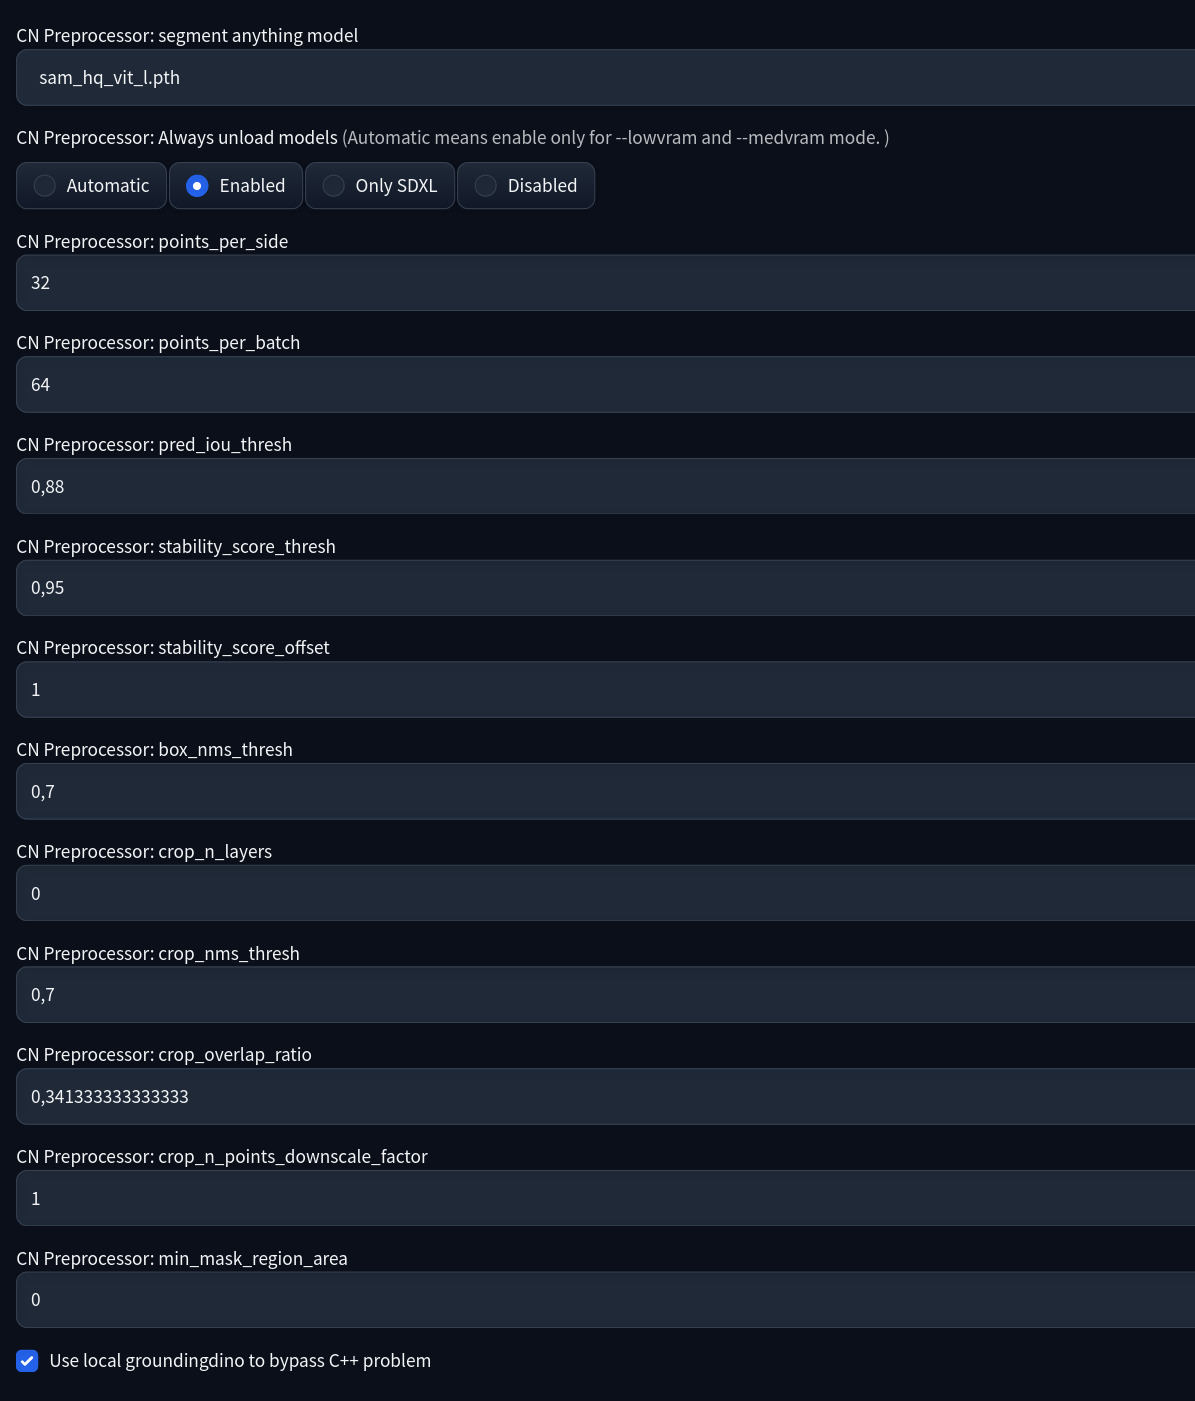
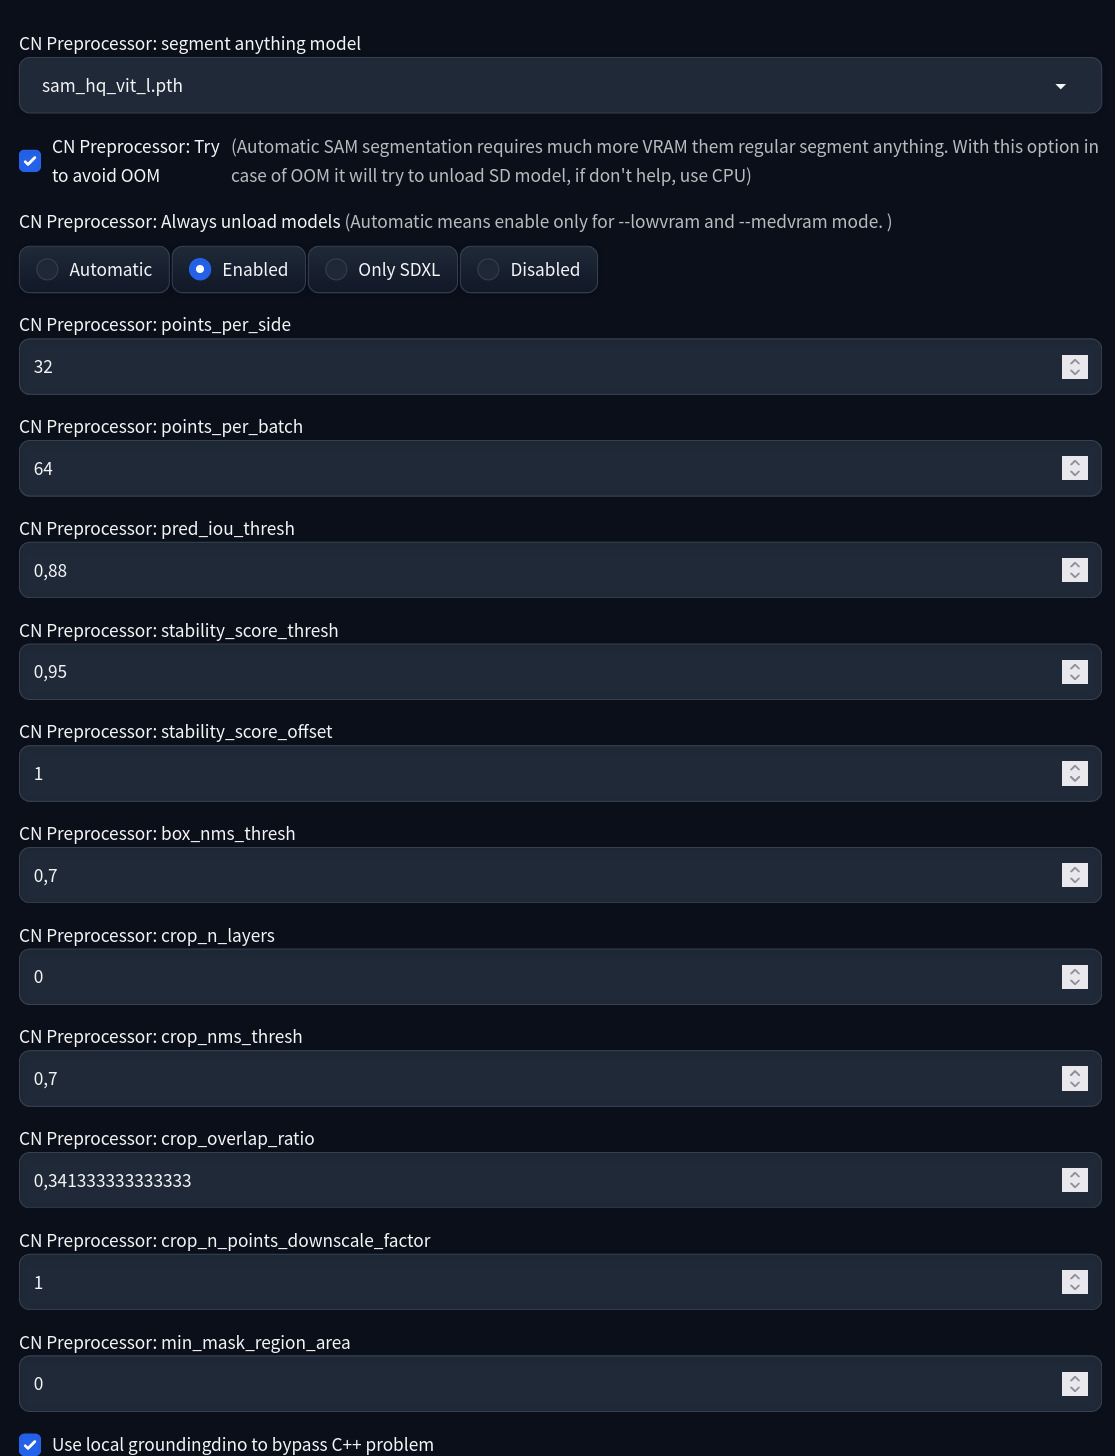
try to avoid oom option

diff --git a/scripts/cn_sam_preprocessor.py b/scripts/cn_sam_preprocessor.py
@@ -1,19 +1,59 @@
 from PIL import Image
+from torch.cuda import OutOfMemoryError
 from scripts.supported_preprocessor import Preprocessor
 from scripts.utils import resize_image_with_pad
 from scripts import sam
-from modules import shared
+from modules import shared, sd_models, devices
 from cn_sam_preprocessor.tools import convertImageIntoPILFormat, convertIntoCNImageFormat
-from cn_sam_preprocessor.options import getTemplate, getAutoSamOptions, getSegmentAnythingModel, needAutoUnloadModels
+from cn_sam_preprocessor.options import (getTemplate, getAutoSamOptions,
+    getSegmentAnythingModel, needAutoUnloadModels, avoidOOM,
+)
+
+
+def unloadSAM():
+    sam.clear_cache()
+    devices.torch_gc()
 
 
 def processAutoSegmentAnything(image: Image.Image):
     sam_model_name = getSegmentAnythingModel(sam.sam_model_list)
     nones = ['random', None, None, None, None, None]
     auto_sam_config = getAutoSamOptions()
+    print(sam_model_name, auto_sam_config)
     result = sam.cnet_seg(sam_model_name, image, *nones, *auto_sam_config)
     print(result[1])
     return result[0][1]
+
+
+
+def processAutoSegmentAnything_cpu(image: Image.Image):
+    print('Using cpu for auto segmentation')
+    oldDevice = devices.device
+    oldSamDevice = sam.sam_device
+    devices.device = 'cpu'
+    sam.sam_device = 'cpu'
+    try:
+        return processAutoSegmentAnything(image)
+    finally:
+        devices.device = oldDevice
+        sam.sam_device = oldSamDevice
+
+
+
+def processAutoSegmentAnything_avoidOOM(image: Image.Image):
+    try:
+        result = processAutoSegmentAnything(image)
+    except OutOfMemoryError:
+        print("\nOut of Memory. Unload Stable Diffusion\n")
+        unloadSAM()
+        sd_models.unload_model_weights()
+        try:
+            result = processAutoSegmentAnything(image)
+        except OutOfMemoryError:
+            print("\nOut of Memory. Use CPU\n")
+            unloadSAM()
+            result = processAutoSegmentAnything_cpu(image)
+    return result
 
 
 
@@ -26,7 +66,7 @@ class PreprocessorSegmentAnything(Preprocessor):
 
     def unload(self) -> bool:
         """@Override"""
-        sam.clear_cache()
+        unloadSAM()
         return True
 
     def __call__(
@@ -41,8 +81,12 @@ class PreprocessorSegmentAnything(Preprocessor):
         img, remove_pad = resize_image_with_pad(input_image, resolution)
         img = convertImageIntoPILFormat(img)
 
-        result = processAutoSegmentAnything(img)
-        if needAutoUnloadModels(): self.unload()
+
+        if avoidOOM():
+            result = processAutoSegmentAnything_avoidOOM(img)
+        else:
+            result = processAutoSegmentAnything(img)
+        if needAutoUnloadModels(): unloadSAM()
 
         result = convertIntoCNImageFormat(result)
         result = remove_pad(result)

diff --git a/cn_sam_preprocessor/options.py b/cn_sam_preprocessor/options.py
@@ -51,6 +51,10 @@ def needAutoUnloadModels():
     return shared.cmd_opts.lowvram or shared.cmd_opts.medvram or (shared.sd_model.is_sdxl and shared.cmd_opts.medvram_sdxl)
 
 
+def avoidOOM():
+    res : bool = shared.opts.data.get(prefix_id + 'avoid_oom', True)
+    return res
+
 def getTemplate(sam_model_list):
     if not sam_model_list:
         sam_model_list = ['not found']
@@ -68,6 +72,12 @@ def getTemplate(sam_model_list):
             },
             section=section,
         ),
+        prefix_id + 'avoid_oom': shared.OptionInfo(
+            True,
+            prefix_label + 'Try to avoid OOM',
+            section=section,
+        ).info("Automatic SAM segmentation requires much more VRAM them regular segment anything. "
+               "With this option in case of OOM it will try to unload SD model, if don't help, use CPU"),
         prefix_id + "always_unload_models": shared.OptionInfo(
             'Enabled',
             prefix_label + 'Always unload models',
